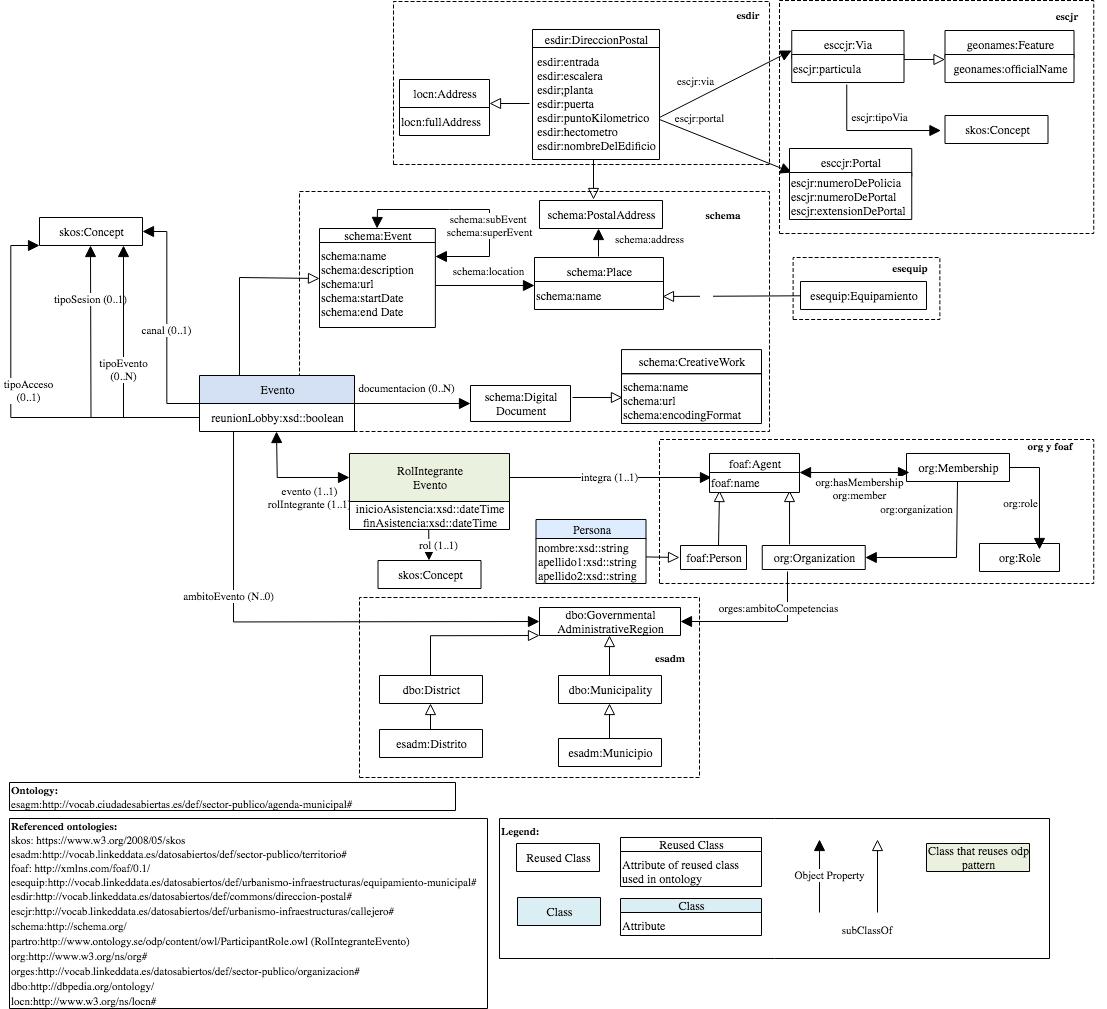
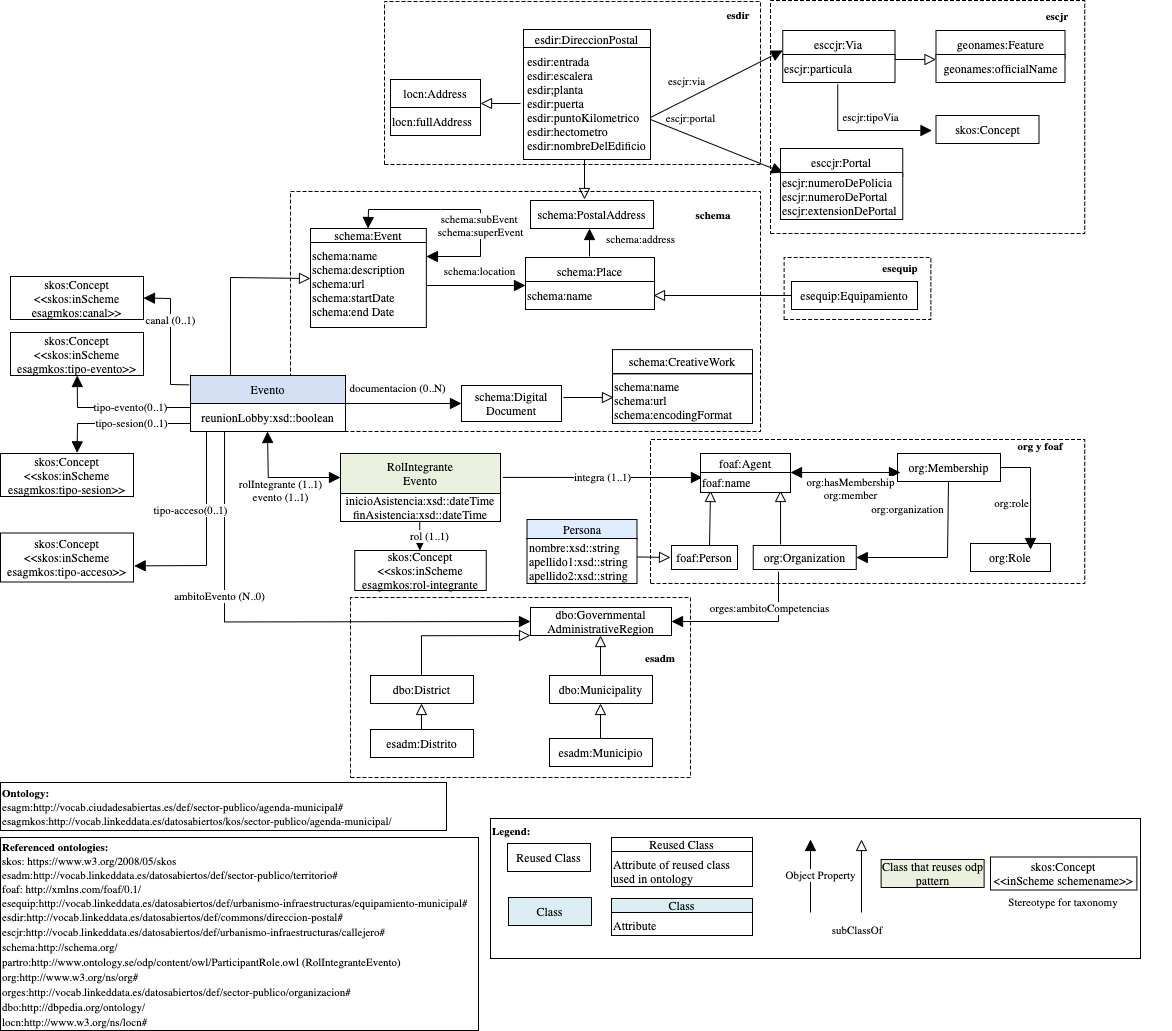
Nueva figura y corrección enlaces
Ajustes en el diagrama conceptual para skos y corrección enlaces

diff --git a/OnToology/ontology/agenda-municipal.owl/documentation/sections/description-es.html b/OnToology/ontology/agenda-municipal.owl/documentation/sections/description-es.html
@@ -4,9 +4,9 @@
 <center><img src="resources/images/modeloConceptual.png"><figcaption>Figura 1. - Vocabulario para la representación de los datos sobre los eventos de la agenda municipal y sus participantes</figcaption>
 </center>
 <span class="markdown">
-  El concepto principal de este vocabulario es el de [esagm:Evento](#Evento)  para el cual se reutilizan las clases [schema:Event](http://schema.org/Event) y [schema:Place](http://schema.org/Place) del vocabulario schema.org. Un lugar (Place) puede ser un [esequip:Equipamiento](http://vocab.linkeddata.es/datosabiertos/def/urbanismo-infraestructuras/equipamiento-municipal/index-en.html) municipal tal como el edificio del ayuntamiento, un centro cultural, etc. Un lugar tiene una dirección que puede estar normalizada utilizando las propiedades de la clase  [esdir:DireccionPostal](http://vocab.linkeddata.es/datosabiertos/def/urbanismo-infraestructuras/direccion-postal#DireccionPostal) y las propiedades de las clases [escjr:Via](http://vocab.linkeddata.es/datosabiertos/def/urbanismo-infraestructuras/callejero#Via) y [escjr:Portal](http://vocab.linkeddata.es/datosabiertos/def/urbanismo-infraestructuras/callejero#Portal)  . También se puede representar la dirección completa sin normalizar mediante la propiedad [locn:fullAddress](http://www.w3.org/ns/locn#fullAddress).
+  El concepto principal de este vocabulario es el de [esagm:Evento](#Evento)  para el cual se reutilizan las clases [schema:Event](http://schema.org/Event) y [schema:Place](http://schema.org/Place) del vocabulario schema.org. Un lugar (Place) puede ser un [esequip:Equipamiento]( http://vocab.linkeddata.es/datosabiertos/def/urbanismo-infraestructuras/equipamiento-municipal#Equipamiento) municipal tal como el edificio del ayuntamiento, un centro cultural, etc. Un lugar tiene una dirección que puede estar normalizada utilizando las propiedades de la clase  [esdir:DireccionPostal](http://vocab.linkeddata.es/datosabiertos/def/urbanismo-infraestructuras/direccion-postal#DireccionPostal) y las propiedades de las clases [escjr:Via](http://vocab.linkeddata.es/datosabiertos/def/urbanismo-infraestructuras/callejero#Via) y [escjr:Portal](http://vocab.linkeddata.es/datosabiertos/def/urbanismo-infraestructuras/callejero#Portal)  . También se puede representar la dirección completa sin normalizar mediante la propiedad [locn:fullAddress](http://www.w3.org/ns/locn#fullAddress).
 
-  Un evento puede tener uno o varios documentos [schema:DigitalDocument](http://schema.org/DigitalDocument) asociados tales como la Orden del Día o el Acta de la Reunión. Un integrante de un evento puede tener el [esagm:rol](#rol) de convocante, titular o asistente. Los eventos están integrados por varios agentes [foaf:Agent](http://xmlns.com/foaf/0.1/Agent); cabe mencionar que el conjunto de agentes comprende personas, organizaciones tales como instituciones o empresas y grupos tales como los colectivos. Los cargos de las personas integrantes de un evento y sus unidades administrativas se representan a través de las clases [org:Role](https://www.w3.org/TR/vocab-org/#org:Role) , [org:Organization](https://www.w3.org/TR/vocab-org/#class-organization) y [org:Membership](https://www.w3.org/TR/vocab-org/#class-membership). Una organización tiene un ámbito de competencias en una región administrativa gubernamental representada mediante la clase [dbo:GovernmentalAministrativeRegion](http://dbpedia.org/ontology/GovernmentalAdministrativeRegion) como puede ser un [esadm:Distrito](http://vocab.linkeddata.es/datosabiertos/def/sector-publico/territorio#Distrito) o [esadm:Municipio](http://vocab.linkeddata.es/datosabiertos/def/sector-publico/territorio#Municipio).
+  Un evento puede tener uno o varios documentos [schema:DigitalDocument](http://schema.org/DigitalDocument) asociados tales como la Orden del Día o el Acta de la Reunión. Un integrante de un evento puede tener el [esagm:rol](#rol) de convocante, titular o asistente. Los eventos están integrados por varios agentes [foaf:Agent](http://xmlns.com/foaf/spec/#term_Agent); cabe mencionar que el conjunto de agentes comprende personas, organizaciones tales como instituciones o empresas y grupos tales como los colectivos. Los cargos de las personas integrantes de un evento y sus unidades administrativas se representan a través de las clases [org:Role](https://www.w3.org/TR/vocab-org/#org:Role) , [org:Organization](https://www.w3.org/TR/vocab-org/#class-organization) y [org:Membership](https://www.w3.org/TR/vocab-org/#class-membership). Una organización tiene un ámbito de competencias en una región administrativa gubernamental representada mediante la clase [dbo:GovernmentalAministrativeRegion](http://dbpedia.org/ontology/GovernmentalAdministrativeRegion) como puede ser un [esadm:Distrito](http://vocab.linkeddata.es/datosabiertos/def/sector-publico/territorio#Distrito) o [esadm:Municipio](http://vocab.linkeddata.es/datosabiertos/def/sector-publico/territorio#Municipio).
 
 Adicionalmente, en este vocabulario se han utilizado varios esquemas de conceptos SKOS para representar el tipo de acceso, tipo de sesión, tipo de evento o canal de un Evento. En la Figura 1 se pueden observar varias relaciones con la clase de conceptos SKOS, sin embargo, los valores concretos no se han especificado pues son diferentes según la taxonomía que representen. Por ejemplo, la propiedad [esagm:tipoSesion](#tipoSesion) representa si la sesión es Ordinaria, Extraordinaria o Extraordinaria Urgente.
 </span>
@@ -58,7 +58,7 @@ Adicionalmente, en este vocabulario se han utilizado varios esquemas de concepto
 </pre>
 
 <span class="markdown">
-  En el siguiente ejemplo se tiene una Junta de Distrito ordinaria realizada en el municipio de Zaragoza. Para este evento se ha creado una instancia de la clase [schema:DigitalDocument](#Documentacion) con un [schema:name](http://schema.org/name) (Orden del Día), un url [schema:url](http://schema.org/url) y formato [schema:encodingFormat](http://schema.org/encodingFormat) pdf.
+  En el siguiente ejemplo se tiene una Junta de Distrito ordinaria realizada en el municipio de Zaragoza. Para este evento se ha creado una instancia de la clase [schema:DigitalDocument](http://schema.org/DigitalDocument) con un [schema:name](http://schema.org/name) (Orden del Día), un url [schema:url](http://schema.org/url) y formato [schema:encodingFormat](http://schema.org/encodingFormat) pdf.
 </span>
 <pre>
 &lt;http://vocab.ciudadesabiertas.es/recurso/sector-publico/agenda-municipal/evento/89db636175d51282bbe88580c14da00b&gt; a esagm:Evento ;

diff --git a/OnToology/ontology/agenda-municipal.owl/documentation/sections/description-en.html b/OnToology/ontology/agenda-municipal.owl/documentation/sections/description-en.html
@@ -4,8 +4,8 @@
 <center><img src="resources/images/modeloConceptual.png"><figcaption>Figure 1. - Vocabulary for the representation of data on the events that take place within the municipal agenda and their participants<span class="backlink"> back to <a href="#toc">ToC</a></span></h2></figcaption>
 </center>
 <span class="markdown">
-  The main concept of this vocabulary is [esagm:Event](#Evento) for which the classes [schema:Event](http://schema.org/Event) and [schema:Place](http://schema.org/Place) of the schema.org vocabulary are reused. A Place can be a municipal building or center [esequip:Equipamiento](http://vocab.linkeddata.es/datosabiertos/def/urbanismo-infraestructuras/equipamiento-municipal/index-en.html) such as the town hall, a cultural center, etc. A place has an address that may be normalized using the properties of the class [escjr:DireccionPostal](http://vocab.linkeddata.es/datosabiertos/def/urbanismo-infraestructuras/direccion-postal#DireccionPostal) and the classes [escjr:Via](http://vocab.linkeddata.es/datosabiertos/def/urbanismo-infraestructuras/callejero#Via) and [Portal](http://vocab.linkeddata.es/datosabiertos/def/urbanismo-infraestructuras/callejero#Portal). The full address can be represented with the property [locn:fullAddress](http://www.w3.org/ns/locn#fullAddress).
-  An event may have documentation [schema:DigitalDocument](http://schema.org/DigitalDocument) such as the Agenda or the Minutes of the meeting. A member of an event can have the role [esagm:rol](#rol) of organizer, chair or attendee. The events include the participation of several [foaf:Agent](http://xmlns.com/foaf/0.1/Agent); it is worth mentioning that the set of agents includes people, organizations such as institutions or companies and groups. The positions of the participants in an event and its administrative units are represented through the classes [org:Role](https://www.w3.org/TR/vocab-org/#org:Role), [org:Organization](https://www.w3.org/TR/vocab-org/#class-organization) and [org:Membership](https://www.w3.org/TR/vocab-org/#class-membership). An organization has an area of competence that is a governmental administrative region represented by the class  [dbo:GovernmentalAministrativeRegion](http://dbpedia.org/ontology/GovernmentalAdministrativeRegion) and it can be a district [esadm:Distrito](http://vocab.linkeddata.es/datosabiertos/def/sector-publico/territorio#Distrito) or a municipality [esadm:Municipio](http://vocab.linkeddata.es/datosabiertos/def/sector-publico/territorio#Municipio).
+  The main concept of this vocabulary is [esagm:Event](#Evento) for which the classes [schema:Event](http://schema.org/Event) and [schema:Place](http://schema.org/Place) of the schema.org vocabulary are reused. A Place can be a municipal building or center [esequip:Equipamiento](http://vocab.linkeddata.es/datosabiertos/def/urbanismo-infraestructuras/equipamiento-municipal/index-en.html) such as the town hall, a cultural center, etc. A place has an address that may be normalized using the properties of the class [escjr:DireccionPostal](http://vocab.linkeddata.es/datosabiertos/def/urbanismo-infraestructuras/direccion-postal#DireccionPostal) and the classes [escjr:Via](http://vocab.linkeddata.es/datosabiertos/def/urbanismo-infraestructuras/callejero#Via) and [escjr:Portal](http://vocab.linkeddata.es/datosabiertos/def/urbanismo-infraestructuras/callejero#Portal). The full address can be represented with the property [locn:fullAddress](http://www.w3.org/ns/locn#fullAddress).
+  An event may have documentation [schema:DigitalDocument](http://schema.org/DigitalDocument) such as the Agenda or the Minutes of the meeting. A member of an event can have the role [esagm:rol](#rol) of organizer, chair or attendee. The events include the participation of several [foaf:Agent](http://xmlns.com/foaf/spec/#term_Agent); it is worth mentioning that the set of agents includes people, organizations such as institutions or companies and groups. The positions of the participants in an event and its administrative units are represented through the classes [org:Role](https://www.w3.org/TR/vocab-org/#org:Role), [org:Organization](https://www.w3.org/TR/vocab-org/#class-organization) and [org:Membership](https://www.w3.org/TR/vocab-org/#class-membership). An organization has an area of competence that is a governmental administrative region represented by the class  [dbo:GovernmentalAministrativeRegion](http://dbpedia.org/ontology/GovernmentalAdministrativeRegion) and it can be a district [esadm:Distrito](http://vocab.linkeddata.es/datosabiertos/def/sector-publico/territorio#Distrito) or a municipality [esadm:Municipio](http://vocab.linkeddata.es/datosabiertos/def/sector-publico/territorio#Municipio).
 
 
 Additionally, in this vocabulary several SKOS concept schemes have been used to represent the type of access, type of session, type of event or channel of an Event. In Figure 1 you can see several relationships with the SKOS concept class, however, the specific values have not been specified because they are different depending on the taxonomy they represent. For example, the type of session  property [esagm:tipoSesion](#tipoSesion) represents whether the session is Ordinary, Extraordinary or Extraordinary Urgent.</span>

diff --git a/OnToology/ontology/agenda-municipal.owl/documentation/sections/introduction-en.html b/OnToology/ontology/agenda-municipal.owl/documentation/sections/introduction-en.html
@@ -15,13 +15,18 @@ Specifically, for the representation of the events, the places where they are ca
 <caption> <a href="#ns"> Table 1</a>: Namespaces used in the document </caption>
 <tbody>
 <tr><td><b>esagm</b></td><td>&lt;http://vocab.ciudadesabiertas.es/def/sector-publico/agenda-municipal#&gt;</td></tr>
-<tr><td><b>skos</b></td><td>&lt;http://www.w3.org/2004/02/skos/core#&gt;</td></tr>
-<tr><td><b>foaf</b></td><td>&lt;http://xmlns.com/foaf/0.1/&gt;</td></tr>
-<tr><td><b>esequip</b></td><td>&lt;http://vocab.linkeddata.es/datosabiertos/def/urbanismo-infraestructuras/equipamiento-municipal#&gt;</td></tr>
-<tr><td><b>schema</b></td><td>&lt;http://schema.org/&gt;</td></tr>
-<tr><td><b>org</b></td><td>&lt;http://www.w3.org/ns/org#&gt;</td></tr>
-<tr><td><b>orges</b></td><td>&lt;http://vocab.linkeddata.es/datosabiertos/def/sector-publico/organizacion#&gt;</td></tr>
-<tr><td><b>dbo</b></td><td>&lt;http://dbpedia.org/ontology/ &gt;</td></tr>
+  <tr><td><b>esagmkos</b></td><td>&lt;http://vocab.linkeddata.es/datosabiertos/kos/sector-publico/agenda-municipal/&gt;</td></tr>
+  <tr><td><b>skos</b></td><td>&lt;http://www.w3.org/2004/02/skos/core#&gt;</td></tr>
+  <tr><td><b>foaf</b></td><td>&lt;http://xmlns.com/foaf/0.1/&gt;</td></tr>
+  <tr><td><b>esequip</b></td><td>&lt;http://vocab.linkeddata.es/datosabiertos/def/urbanismo-infraestructuras/equipamiento-municipal#&gt;</td></tr>
+  <tr><td><b>schema</b></td><td>&lt;http://schema.org/&gt;</td></tr>
+  <tr><td><b>org</b></td><td>&lt;http://www.w3.org/ns/org#&gt;</td></tr>
+  <tr><td><b>orges</b></td><td>&lt;http://vocab.linkeddata.es/datosabiertos/def/sector-publico/organizacion#&gt;</td></tr>
+  <tr><td><b>dbo</b></td><td>&lt;http://dbpedia.org/ontology/ &gt;</td></tr>
+  <tr><td><b>locn</b></td><td>&lt;http://www.w3.org/ns/locn#&gt;</td></tr>
+  <tr><td><b>esadm</b></td><td>&lt;http://vocab.linkeddata.es/datosabiertos/def/sector-publico/territorio#&gt;</td></tr>
+  <tr><td><b>esdir</b></td><td>&lt;http://vocab.linkeddata.es/datosabiertos/def/commons/direccion-postal#&gt;</td></tr>
+  <tr><td><b>escjr</b></td><td>&lt;http://vocab.linkeddata.es/datosabiertos/def/urbanismo-infraestructuras/callejero#&gt;</td></tr>
 </tbody>
 </table>
 </div>

diff --git a/OnToology/ontology/agenda-municipal.owl/documentation/sections/introduction-es.html b/OnToology/ontology/agenda-municipal.owl/documentation/sections/introduction-es.html
@@ -14,6 +14,7 @@ Concretamente, para la representación de los eventos, los lugares donde se llev
 <caption> <a href="#ns"> Tabla 1</a>: Namespaces utilizados en el documento </caption>
 <tbody>
   <tr><td><b>esagm</b></td><td>&lt;http://vocab.ciudadesabiertas.es/def/sector-publico/agenda-municipal#&gt;</td></tr>
+  <tr><td><b>esagmkos</b></td><td>&lt;http://vocab.linkeddata.es/datosabiertos/kos/sector-publico/agenda-municipal/&gt;</td></tr>
   <tr><td><b>skos</b></td><td>&lt;http://www.w3.org/2004/02/skos/core#&gt;</td></tr>
   <tr><td><b>foaf</b></td><td>&lt;http://xmlns.com/foaf/0.1/&gt;</td></tr>
   <tr><td><b>esequip</b></td><td>&lt;http://vocab.linkeddata.es/datosabiertos/def/urbanismo-infraestructuras/equipamiento-municipal#&gt;</td></tr>
